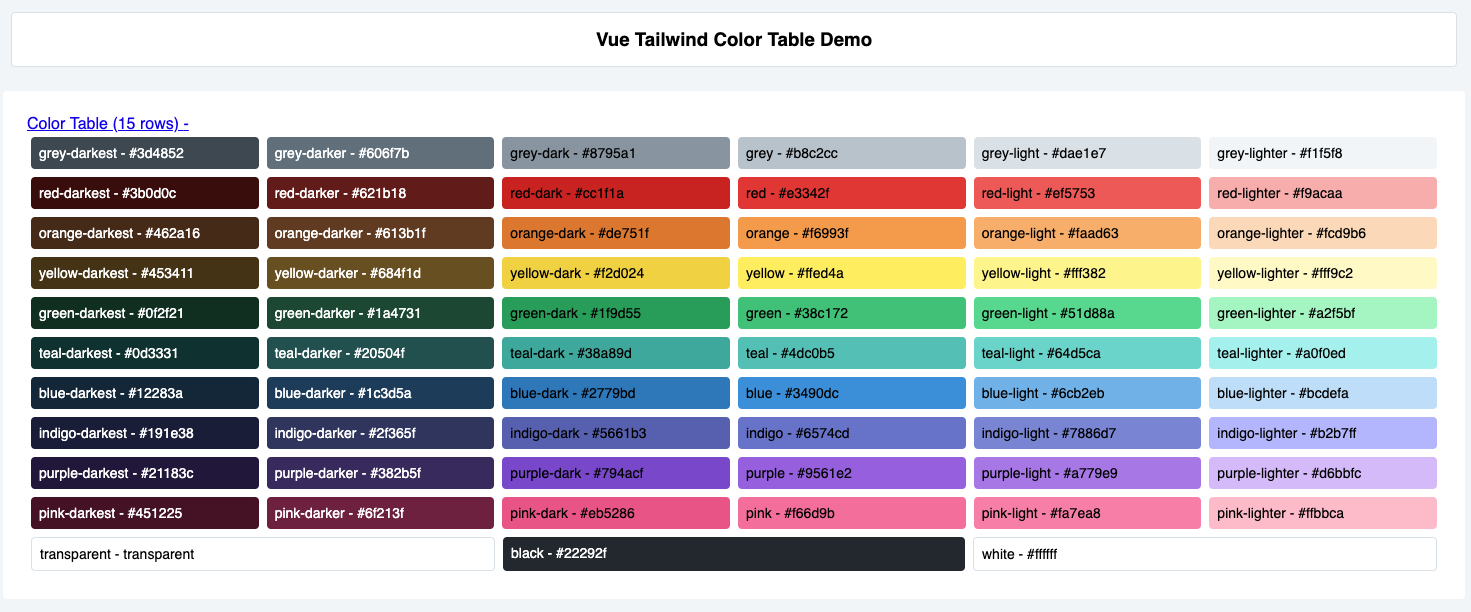
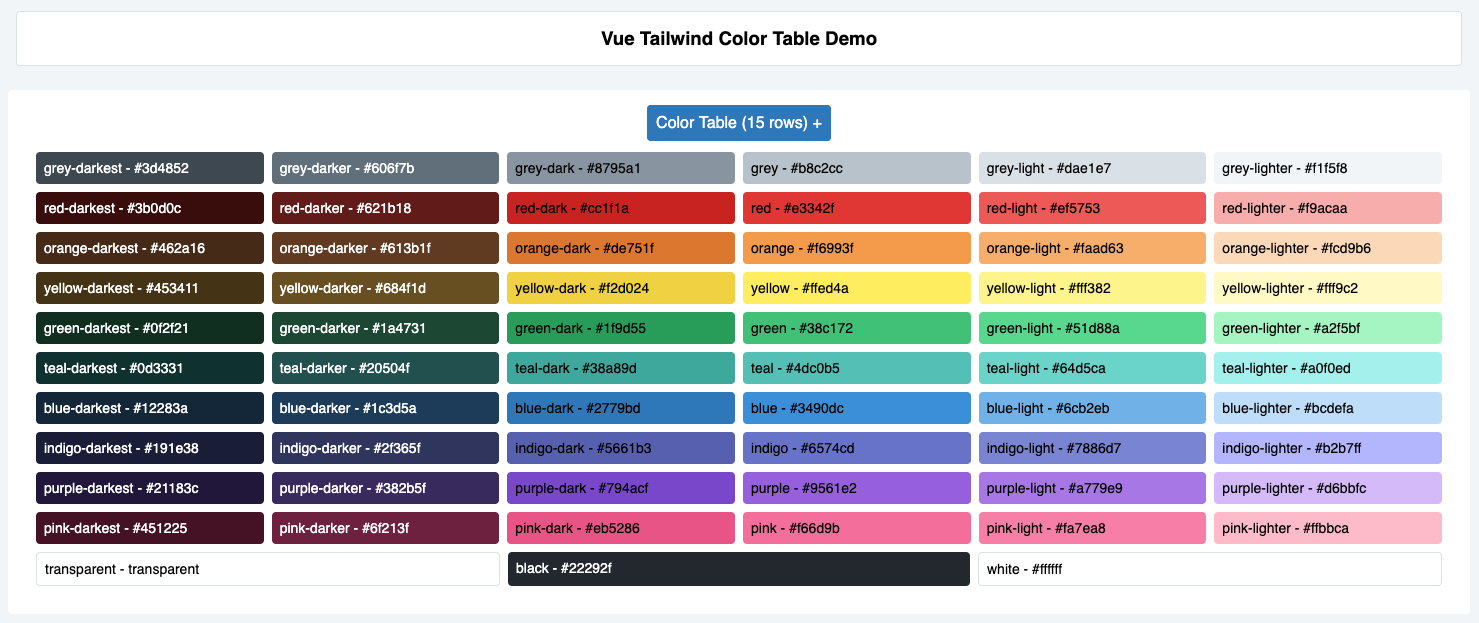
Update visuals.

diff --git a/dist/@peterdkc/vtw-color-table.umd.min.js b/dist/@peterdkc/vtw-color-table.umd.min.js
@@ -1,2 +1,2 @@
-(function(e,t){"object"===typeof exports&&"object"===typeof module?module.exports=t(require("vue")):"function"===typeof define&&define.amd?define([],t):"object"===typeof exports?exports["@peterdkc/vtw-color-table"]=t(require("vue")):e["@peterdkc/vtw-color-table"]=t(e["Vue"])})("undefined"!==typeof self?self:this,function(e){return function(e){var t={};function o(r){if(t[r])return t[r].exports;var n=t[r]={i:r,l:!1,exports:{}};return e[r].call(n.exports,n,n.exports,o),n.l=!0,n.exports}return o.m=e,o.c=t,o.d=function(e,t,r){o.o(e,t)||Object.defineProperty(e,t,{enumerable:!0,get:r})},o.r=function(e){"undefined"!==typeof Symbol&&Symbol.toStringTag&&Object.defineProperty(e,Symbol.toStringTag,{value:"Module"}),Object.defineProperty(e,"__esModule",{value:!0})},o.t=function(e,t){if(1&t&&(e=o(e)),8&t)return e;if(4&t&&"object"===typeof e&&e&&e.__esModule)return e;var r=Object.create(null);if(o.r(r),Object.defineProperty(r,"default",{enumerable:!0,value:e}),2&t&&"string"!=typeof e)for(var n in e)o.d(r,n,function(t){return e[t]}.bind(null,n));return r},o.n=function(e){var t=e&&e.__esModule?function(){return e["default"]}:function(){return e};return o.d(t,"a",t),t},o.o=function(e,t){return Object.prototype.hasOwnProperty.call(e,t)},o.p="",o(o.s="282a")}({"282a":function(e,t,o){"use strict";var r;(o.r(t),"undefined"!==typeof window)&&((r=window.document.currentScript)&&(r=r.src.match(/(.+\/)[^\/]+\.js(\?.*)?$/))&&(o.p=r[1]));var n=o("8bbf"),l=o.n(n),s=function(){var e=this,t=e.$createElement,o=e._self._c||t;return o("div",{staticClass:"bg-white p-6 m-4 rounded"},[o("a",{attrs:{href:"#"},on:{click:e.toggleTable}},[e._v("\n        Color Table ("+e._s(e.colorTable.length)+" rows)\n        "),e.tableIsOpen?o("span",[e._v("-")]):e._e(),e.tableIsOpen?e._e():o("span",[e._v("+")])]),e._l(e.colorTable,function(t){return o("div",{staticClass:"flex",style:{display:e.displayTable}},e._l(t,function(t){return o("div",{staticClass:"flex-1 p-2 m-1 rounded text-sm",class:{border:t.border},style:{"background-color":t.color,color:t.textColor}},[e._v("\n            "+e._s(t.name)+" - "+e._s(t.color)+"\n        ")])}),0)})],2)},a=[],i={data(){return{colors:tailwindColors,colorTable:[],displayTable:"none"}},methods:{toggleTable(e){e.preventDefault(),this.displayTable="none"===this.displayTable?"flex":"none"},doColors(){let e,t=0,o=0,r=0,n=this.colors;for(e in n)this.colorTable[t]||(this.colorTable[t]=[]),o>5||this.isGreyscale(e)?(o=0,t++):(this.colorTable[t].push({name:e,color:n[e],textColor:o<2?"white":"black",border:!1}),o++);for(e in r=t+1,this.colorTable[r]=[],n)this.isGreyscale(e)&&this.colorTable[r].push({name:e,color:n[e],textColor:this.greyscaleTextColor(e),border:this.greyscaleBorder(e)});console.dir(this.colorTable)},isGreyscale(e){return"black"==e||"transparent"==e||"white"==e},greyscaleTextColor(e){return"black"==e?"white":"black"},greyscaleBorder(e){return"black"!==e}},computed:{tableIsOpen(){return"flex"===this.displayTable}},created(){this.doColors()}},c=i;function u(e,t,o,r,n,l,s,a){var i,c="function"===typeof e?e.options:e;if(t&&(c.render=t,c.staticRenderFns=o,c._compiled=!0),r&&(c.functional=!0),l&&(c._scopeId="data-v-"+l),s?(i=function(e){e=e||this.$vnode&&this.$vnode.ssrContext||this.parent&&this.parent.$vnode&&this.parent.$vnode.ssrContext,e||"undefined"===typeof __VUE_SSR_CONTEXT__||(e=__VUE_SSR_CONTEXT__),n&&n.call(this,e),e&&e._registeredComponents&&e._registeredComponents.add(s)},c._ssrRegister=i):n&&(i=a?function(){n.call(this,this.$root.$options.shadowRoot)}:n),i)if(c.functional){c._injectStyles=i;var u=c.render;c.render=function(e,t){return i.call(t),u(e,t)}}else{var d=c.beforeCreate;c.beforeCreate=d?[].concat(d,i):[i]}return{exports:e,options:c}}var d=u(c,s,a,!1,null,null,null),f=d.exports;l.a.component("vtw-color-table",f);var p=f;t["default"]=p},"8bbf":function(t,o){t.exports=e}})});
+(function(e,t){"object"===typeof exports&&"object"===typeof module?module.exports=t(require("vue")):"function"===typeof define&&define.amd?define([],t):"object"===typeof exports?exports["@peterdkc/vtw-color-table"]=t(require("vue")):e["@peterdkc/vtw-color-table"]=t(e["Vue"])})("undefined"!==typeof self?self:this,function(e){return function(e){var t={};function r(o){if(t[o])return t[o].exports;var n=t[o]={i:o,l:!1,exports:{}};return e[o].call(n.exports,n,n.exports,r),n.l=!0,n.exports}return r.m=e,r.c=t,r.d=function(e,t,o){r.o(e,t)||Object.defineProperty(e,t,{enumerable:!0,get:o})},r.r=function(e){"undefined"!==typeof Symbol&&Symbol.toStringTag&&Object.defineProperty(e,Symbol.toStringTag,{value:"Module"}),Object.defineProperty(e,"__esModule",{value:!0})},r.t=function(e,t){if(1&t&&(e=r(e)),8&t)return e;if(4&t&&"object"===typeof e&&e&&e.__esModule)return e;var o=Object.create(null);if(r.r(o),Object.defineProperty(o,"default",{enumerable:!0,value:e}),2&t&&"string"!=typeof e)for(var n in e)r.d(o,n,function(t){return e[t]}.bind(null,n));return o},r.n=function(e){var t=e&&e.__esModule?function(){return e["default"]}:function(){return e};return r.d(t,"a",t),t},r.o=function(e,t){return Object.prototype.hasOwnProperty.call(e,t)},r.p="",r(r.s="282a")}({"282a":function(e,t,r){"use strict";var o;(r.r(t),"undefined"!==typeof window)&&((o=window.document.currentScript)&&(o=o.src.match(/(.+\/)[^\/]+\.js(\?.*)?$/))&&(r.p=o[1]));var n=r("8bbf"),l=r.n(n),s=function(){var e=this,t=e.$createElement,r=e._self._c||t;return r("div",{staticClass:"bg-white p-6 m-4 rounded"},[r("div",{staticClass:"w-full text-center"},[r("a",{staticClass:"bold rounded border border-blue-dark p-2 bg-blue-dark text-white hover:bg-white hover:text-blue-dark no-underline",attrs:{href:"#"},on:{click:e.toggleTable}},[e._v("\n            Color Table ("+e._s(e.colorTable.length)+" rows)\n            "),e.tableIsOpen?r("span",[e._v("-")]):e._e(),e.tableIsOpen?e._e():r("span",[e._v("+")])])]),r("div",{staticClass:"pt-4",style:{display:e.displayTable}},e._l(e.colorTable,function(t){return r("div",{staticClass:"flex"},e._l(t,function(t){return r("div",{staticClass:"flex-1 p-2 m-1 rounded text-sm font-medium",class:{border:t.border},style:{"background-color":t.color,color:t.textColor}},[e._v("\n                "+e._s(t.name)+" - "+e._s(t.color)+"\n            ")])}),0)}),0)])},a=[],i={data(){return{colors:tailwindColors,colorTable:[],displayTable:"none"}},methods:{toggleTable(e){e.preventDefault(),this.displayTable="none"===this.displayTable?"block":"none"},doColors(){let e,t=0,r=0,o=0,n=this.colors;for(e in n)this.colorTable[t]||(this.colorTable[t]=[]),r>5||this.isGreyscale(e)?(r=0,t++):(this.colorTable[t].push({name:e,color:n[e],textColor:r<2?"white":"black",border:!1}),r++);for(e in o=t+1,this.colorTable[o]=[],n)this.isGreyscale(e)&&this.colorTable[o].push({name:e,color:n[e],textColor:this.greyscaleTextColor(e),border:this.greyscaleBorder(e)});console.dir(this.colorTable)},isGreyscale(e){return"black"==e||"transparent"==e||"white"==e},greyscaleTextColor(e){return"black"==e?"white":"black"},greyscaleBorder(e){return"black"!==e}},computed:{tableIsOpen(){return"flex"===this.displayTable}},created(){this.doColors()}},c=i;function u(e,t,r,o,n,l,s,a){var i,c="function"===typeof e?e.options:e;if(t&&(c.render=t,c.staticRenderFns=r,c._compiled=!0),o&&(c.functional=!0),l&&(c._scopeId="data-v-"+l),s?(i=function(e){e=e||this.$vnode&&this.$vnode.ssrContext||this.parent&&this.parent.$vnode&&this.parent.$vnode.ssrContext,e||"undefined"===typeof __VUE_SSR_CONTEXT__||(e=__VUE_SSR_CONTEXT__),n&&n.call(this,e),e&&e._registeredComponents&&e._registeredComponents.add(s)},c._ssrRegister=i):n&&(i=a?function(){n.call(this,this.$root.$options.shadowRoot)}:n),i)if(c.functional){c._injectStyles=i;var u=c.render;c.render=function(e,t){return i.call(t),u(e,t)}}else{var d=c.beforeCreate;c.beforeCreate=d?[].concat(d,i):[i]}return{exports:e,options:c}}var d=u(c,s,a,!1,null,null,null),f=d.exports;l.a.component("vtw-color-table",f);var p=f;t["default"]=p},"8bbf":function(t,r){t.exports=e}})});
 //# sourceMappingURL=vtw-color-table.umd.min.js.map

diff --git a/dist/@peterdkc/vtw-color-table.common.js b/dist/@peterdkc/vtw-color-table.common.js
@@ -110,17 +110,21 @@ if (typeof window !== 'undefined') {
 var external_commonjs_vue_commonjs2_vue_root_Vue_ = __webpack_require__("8bbf");
 var external_commonjs_vue_commonjs2_vue_root_Vue_default = /*#__PURE__*/__webpack_require__.n(external_commonjs_vue_commonjs2_vue_root_Vue_);
 
-// CONCATENATED MODULE: /usr/local/lib/node_modules/@vue/cli-service/node_modules/cache-loader/dist/cjs.js?{"cacheDirectory":"node_modules/.cache/vue-loader","cacheIdentifier":"553e40dc-vue-loader-template"}!/usr/local/lib/node_modules/@vue/cli-service/node_modules/vue-loader/lib/loaders/templateLoader.js??vue-loader-options!/usr/local/lib/node_modules/@vue/cli-service/node_modules/cache-loader/dist/cjs.js??ref--0-0!/usr/local/lib/node_modules/@vue/cli-service/node_modules/vue-loader/lib??vue-loader-options!./src/ColorTable.vue?vue&type=template&id=27c34af2&
-var render = function () {var _vm=this;var _h=_vm.$createElement;var _c=_vm._self._c||_h;return _c('div',{staticClass:"bg-white p-6 m-4 rounded"},[_c('a',{attrs:{"href":"#"},on:{"click":_vm.toggleTable}},[_vm._v("\n        Color Table ("+_vm._s(_vm.colorTable.length)+" rows)\n        "),(_vm.tableIsOpen)?_c('span',[_vm._v("-")]):_vm._e(),(! _vm.tableIsOpen)?_c('span',[_vm._v("+")]):_vm._e()]),_vm._l((_vm.colorTable),function(row){return _c('div',{staticClass:"flex",style:({ display: _vm.displayTable })},_vm._l((row),function(cell){return _c('div',{staticClass:"flex-1 p-2 m-1 rounded text-sm",class:{ border: cell.border },style:({
-                'background-color': cell.color,
-                'color': cell.textColor
-            })},[_vm._v("\n            "+_vm._s(cell.name)+" - "+_vm._s(cell.color)+"\n        ")])}),0)})],2)}
+// CONCATENATED MODULE: /usr/local/lib/node_modules/@vue/cli-service/node_modules/cache-loader/dist/cjs.js?{"cacheDirectory":"node_modules/.cache/vue-loader","cacheIdentifier":"553e40dc-vue-loader-template"}!/usr/local/lib/node_modules/@vue/cli-service/node_modules/vue-loader/lib/loaders/templateLoader.js??vue-loader-options!/usr/local/lib/node_modules/@vue/cli-service/node_modules/cache-loader/dist/cjs.js??ref--0-0!/usr/local/lib/node_modules/@vue/cli-service/node_modules/vue-loader/lib??vue-loader-options!./src/ColorTable.vue?vue&type=template&id=23b61649&
+var render = function () {var _vm=this;var _h=_vm.$createElement;var _c=_vm._self._c||_h;return _c('div',{staticClass:"bg-white p-6 m-4 rounded"},[_c('div',{staticClass:"w-full text-center"},[_c('a',{staticClass:"bold rounded border border-blue-dark p-2 bg-blue-dark text-white hover:bg-white hover:text-blue-dark no-underline",attrs:{"href":"#"},on:{"click":_vm.toggleTable}},[_vm._v("\n            Color Table ("+_vm._s(_vm.colorTable.length)+" rows)\n            "),(_vm.tableIsOpen)?_c('span',[_vm._v("-")]):_vm._e(),(! _vm.tableIsOpen)?_c('span',[_vm._v("+")]):_vm._e()])]),_c('div',{staticClass:"pt-4",style:({ display: _vm.displayTable })},_vm._l((_vm.colorTable),function(row){return _c('div',{staticClass:"flex"},_vm._l((row),function(cell){return _c('div',{staticClass:"flex-1 p-2 m-1 rounded text-sm font-medium",class:{ border: cell.border },style:({
+                    'background-color': cell.color,
+                    'color': cell.textColor
+                })},[_vm._v("\n                "+_vm._s(cell.name)+" - "+_vm._s(cell.color)+"\n            ")])}),0)}),0)])}
 var staticRenderFns = []
 
 
-// CONCATENATED MODULE: ./src/ColorTable.vue?vue&type=template&id=27c34af2&
+// CONCATENATED MODULE: ./src/ColorTable.vue?vue&type=template&id=23b61649&
 
 // CONCATENATED MODULE: /usr/local/lib/node_modules/@vue/cli-service/node_modules/cache-loader/dist/cjs.js??ref--0-0!/usr/local/lib/node_modules/@vue/cli-service/node_modules/vue-loader/lib??vue-loader-options!./src/ColorTable.vue?vue&type=script&lang=js&
+//
+//
+//
+//
 //
 //
 //
@@ -159,7 +163,7 @@ var staticRenderFns = []
             event.preventDefault();
 
             this.displayTable = (this.displayTable === "none") ?
-                "flex" :
+                "block" :
                 "none";
         },
 

diff --git a/dist/@peterdkc/vtw-color-table.umd.js b/dist/@peterdkc/vtw-color-table.umd.js
@@ -119,17 +119,21 @@ if (typeof window !== 'undefined') {
 var external_commonjs_vue_commonjs2_vue_root_Vue_ = __webpack_require__("8bbf");
 var external_commonjs_vue_commonjs2_vue_root_Vue_default = /*#__PURE__*/__webpack_require__.n(external_commonjs_vue_commonjs2_vue_root_Vue_);
 
-// CONCATENATED MODULE: /usr/local/lib/node_modules/@vue/cli-service/node_modules/cache-loader/dist/cjs.js?{"cacheDirectory":"node_modules/.cache/vue-loader","cacheIdentifier":"553e40dc-vue-loader-template"}!/usr/local/lib/node_modules/@vue/cli-service/node_modules/vue-loader/lib/loaders/templateLoader.js??vue-loader-options!/usr/local/lib/node_modules/@vue/cli-service/node_modules/cache-loader/dist/cjs.js??ref--0-0!/usr/local/lib/node_modules/@vue/cli-service/node_modules/vue-loader/lib??vue-loader-options!./src/ColorTable.vue?vue&type=template&id=27c34af2&
-var render = function () {var _vm=this;var _h=_vm.$createElement;var _c=_vm._self._c||_h;return _c('div',{staticClass:"bg-white p-6 m-4 rounded"},[_c('a',{attrs:{"href":"#"},on:{"click":_vm.toggleTable}},[_vm._v("\n        Color Table ("+_vm._s(_vm.colorTable.length)+" rows)\n        "),(_vm.tableIsOpen)?_c('span',[_vm._v("-")]):_vm._e(),(! _vm.tableIsOpen)?_c('span',[_vm._v("+")]):_vm._e()]),_vm._l((_vm.colorTable),function(row){return _c('div',{staticClass:"flex",style:({ display: _vm.displayTable })},_vm._l((row),function(cell){return _c('div',{staticClass:"flex-1 p-2 m-1 rounded text-sm",class:{ border: cell.border },style:({
-                'background-color': cell.color,
-                'color': cell.textColor
-            })},[_vm._v("\n            "+_vm._s(cell.name)+" - "+_vm._s(cell.color)+"\n        ")])}),0)})],2)}
+// CONCATENATED MODULE: /usr/local/lib/node_modules/@vue/cli-service/node_modules/cache-loader/dist/cjs.js?{"cacheDirectory":"node_modules/.cache/vue-loader","cacheIdentifier":"553e40dc-vue-loader-template"}!/usr/local/lib/node_modules/@vue/cli-service/node_modules/vue-loader/lib/loaders/templateLoader.js??vue-loader-options!/usr/local/lib/node_modules/@vue/cli-service/node_modules/cache-loader/dist/cjs.js??ref--0-0!/usr/local/lib/node_modules/@vue/cli-service/node_modules/vue-loader/lib??vue-loader-options!./src/ColorTable.vue?vue&type=template&id=23b61649&
+var render = function () {var _vm=this;var _h=_vm.$createElement;var _c=_vm._self._c||_h;return _c('div',{staticClass:"bg-white p-6 m-4 rounded"},[_c('div',{staticClass:"w-full text-center"},[_c('a',{staticClass:"bold rounded border border-blue-dark p-2 bg-blue-dark text-white hover:bg-white hover:text-blue-dark no-underline",attrs:{"href":"#"},on:{"click":_vm.toggleTable}},[_vm._v("\n            Color Table ("+_vm._s(_vm.colorTable.length)+" rows)\n            "),(_vm.tableIsOpen)?_c('span',[_vm._v("-")]):_vm._e(),(! _vm.tableIsOpen)?_c('span',[_vm._v("+")]):_vm._e()])]),_c('div',{staticClass:"pt-4",style:({ display: _vm.displayTable })},_vm._l((_vm.colorTable),function(row){return _c('div',{staticClass:"flex"},_vm._l((row),function(cell){return _c('div',{staticClass:"flex-1 p-2 m-1 rounded text-sm font-medium",class:{ border: cell.border },style:({
+                    'background-color': cell.color,
+                    'color': cell.textColor
+                })},[_vm._v("\n                "+_vm._s(cell.name)+" - "+_vm._s(cell.color)+"\n            ")])}),0)}),0)])}
 var staticRenderFns = []
 
 
-// CONCATENATED MODULE: ./src/ColorTable.vue?vue&type=template&id=27c34af2&
+// CONCATENATED MODULE: ./src/ColorTable.vue?vue&type=template&id=23b61649&
 
 // CONCATENATED MODULE: /usr/local/lib/node_modules/@vue/cli-service/node_modules/cache-loader/dist/cjs.js??ref--0-0!/usr/local/lib/node_modules/@vue/cli-service/node_modules/vue-loader/lib??vue-loader-options!./src/ColorTable.vue?vue&type=script&lang=js&
+//
+//
+//
+//
 //
 //
 //
@@ -168,7 +172,7 @@ var staticRenderFns = []
             event.preventDefault();
 
             this.displayTable = (this.displayTable === "none") ?
-                "flex" :
+                "block" :
                 "none";
         },
 

diff --git a/src/ColorTable.vue b/src/ColorTable.vue
@@ -1,21 +1,25 @@
 <template>
     <div class="bg-white p-6 m-4 rounded">
-        <a href="#" @click="toggleTable">
-            Color Table ({{ colorTable.length }} rows)
-            <span v-if="tableIsOpen">-</span>
-            <span v-if="! tableIsOpen">+</span>
-        </a>
+        <div class="w-full text-center">
+            <a href="#" @click="toggleTable" class="bold rounded border border-blue-dark p-2 bg-blue-dark text-white hover:bg-white hover:text-blue-dark no-underline">
+                Color Table ({{ colorTable.length }} rows)
+                <span v-if="tableIsOpen">-</span>
+                <span v-if="! tableIsOpen">+</span>
+            </a>
+        </div>
 
-        <div v-for="row in colorTable" class="flex" :style="{ display: displayTable }">
-            <div v-for="cell in row"
-                class="flex-1 p-2 m-1 rounded text-sm"
-                :class="{ border: cell.border }"
-                :style="{
-                    'background-color': cell.color,
-                    'color': cell.textColor
-                }"
-            >
-                {{ cell.name }} - {{cell.color}}
+        <div class="pt-4" :style="{ display: displayTable }">
+            <div v-for="row in colorTable" class="flex">
+                <div v-for="cell in row"
+                    class="flex-1 p-2 m-1 rounded text-sm font-medium"
+                    :class="{ border: cell.border }"
+                    :style="{
+                        'background-color': cell.color,
+                        'color': cell.textColor
+                    }"
+                >
+                    {{ cell.name }} - {{cell.color}}
+                </div>
             </div>
         </div>
     </div>
@@ -36,7 +40,7 @@
                 event.preventDefault();
 
                 this.displayTable = (this.displayTable === "none") ?
-                    "flex" :
+                    "block" :
                     "none";
             },
 
